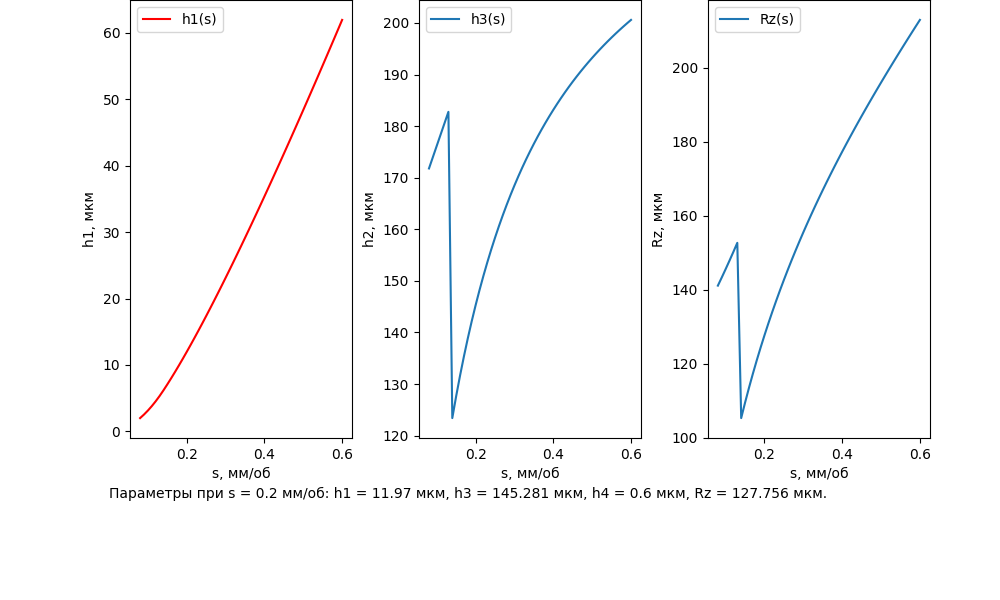
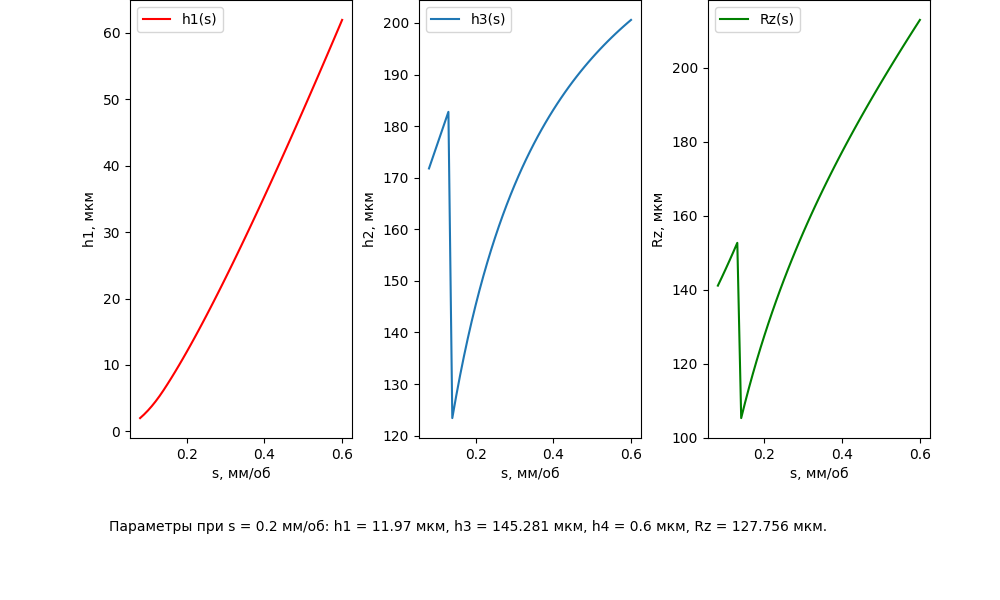
refactored

diff --git a/main.py b/main.py
@@ -9,44 +9,44 @@ scheme = "0"
 Kh = 0.96
 lst_bol = False
 
-plt.figure(figsize=(10,6))
+plt.figure(figsize=(10, 6))
 
-def schema_definition(s,r,φ,φ1):
+def schema_definition(s, r, φ, φ1):
     fi0 = 0
     A = 0
     if φ == φ1:
-        if s > 2*r*sin(φ1):
+        if s > 2 * r * sin(φ1):
             scheme = 5
         else:
             scheme = 2
 
     elif φ > φ1:
-        fi0 = grad(arccos((r-s*sin(φ1))/r)-math.radians(φ1))
-        A = (r*(cos(φ1)-cos(fi0)))/tg(φ1)
-        if s < 2*r*sin(φ1):
+        fi0 = grad(arccos((r - s * sin(φ1)) / r) - math.radians(φ1))
+        A = (r * (cos(φ1) - cos(fi0))) / tg(φ1)
+        if s < 2 * r * sin(φ1):
             scheme = 2
-        elif s > sin(φ)+r*sin(φ1)+A :
+        elif s > sin(φ) + r * sin(φ1) + A:
             scheme = 5
         else:
             scheme = 3
 
     elif φ < φ1:
-        
-        fi0 = grad(arccos((r-s*sin(φ))/r)-math.radians(φ))
-        A = (r*(cos(φ1)-cos(fi0*180/3.1416)))/tg(φ)
 
-        if s < 2*r*sin(φ):
+        fi0 = grad(arccos((r - s * sin(φ)) / r) - math.radians(φ))
+        A = (r * (cos(φ1) - cos(fi0 * 180 / 3.1416))) / tg(φ)
+
+        if s < 2 * r * sin(φ):
             scheme = 2
             
-        elif s > r*sin(φ)+r*sin(φ1)+A:
+        elif s > r * sin(φ) + r * sin(φ1) + A:
             scheme = 5
         else:
             scheme = 4
-    return(scheme,fi0)
+    return(scheme, fi0)
 
 def h1_definition(s):
 
-    scheme,fi0 = schema_definition(s,lst[7-1],lst[4-1],lst[5-1])
+    scheme,fi0 = schema_definition(s, lst[7-1], lst[4-1], lst[5-1])
 
     r = lst[7-1]
     φ = lst[4-1]
@@ -54,19 +54,19 @@ def h1_definition(s):
 
     match scheme:
         case (1):
-            h1 = s*(((sin(φ))*sin(φ1))/(sin(φ)*cos(φ1)+sin(φ1)*cos(φ)))
+            h1 = s * (((sin(φ)) * sin(φ1)) / (sin(φ) * cos(φ1) + sin(φ1) * cos(φ)))
         case (2):
-            h1 = r-sqrt(math.pow(r,2)-math.pow((s/2),2))
-        case (3): 
-            h1 = r*(1-cos(fi0))
+            h1 = r - sqrt(math.pow(r, 2) - math.pow((s / 2), 2))
+        case (3):
+            h1 = r * (1 - cos(fi0))
         case (4):
-            h1 = r*(1-cos(fi0))
+            h1 = r * (1 - cos(fi0))
         case (5):
-            x1 = (s-r*(sin(φ)+sin(φ1)))*tg(φ1)
-            x2 = r*tg(φ)*(cos(φ1)-cos(φ))
-            x3 = tg(φ)+tg(φ1)
-            B = (x1-x2)/x3
-            h1 = r*(1-cos(φ))+B*tg(φ)
+            x1 = (s - r * (sin(φ) + sin(φ1))) * tg(φ1)
+            x2 = r * tg(φ) * (cos(φ1) - cos(φ))
+            x3 = tg(φ) + tg(φ1)
+            B = (x1 - x2) / x3
+            h1 = r * (1 - cos(φ)) + B * tg(φ)
     return (h1*1000)
 
 def h3_definition(s):
@@ -77,31 +77,31 @@ def h3_definition(s):
     σ_b = lst[13-1]
     σ_t = lst[14-1]
 
-    τ_s = 0.75*σ_b
+    τ_s = 0.75 * σ_b
     x1 = math.sqrt(math.pow(τ_s,2)+math.pow(σ_t,2))
-    b_s = 0.5*(1000*ρ*(1-(τ_s/x1)))
+    b_s = 0.5 * (1000 * ρ * (1 - (τ_s / x1)))
     #print("b_s",b_s)
-    scheme,fi0 = schema_definition(s,lst[7-1],lst[4-1],lst[5-1])
+    scheme, fi0 = schema_definition(s, lst[7-1], lst[4-1], lst[5-1])
     if scheme == 1 or scheme == 5:
-        h3 = b_s/((1/tg(φ))+1/tg(φ1))
+        h3 = b_s / ((1 / tg(φ)) + 1 / tg(φ1))
     elif scheme == 2:
-        h3 = (b_s*(2*s+b_s))/(32*r)
+        h3 = (b_s * (2 * s + b_s)) / (32 * r)
     elif scheme == 3:
-        h3 = b_s/((1/tg(φ1))+(2*(r/s)))
+        h3 = b_s / ((1 / tg(φ1)) + (2 * (r / s)))
     elif scheme == 4:
-        h3 = b_s/((1/tg(φ))+((2*r)/s))
+        h3 = b_s / ((1 / tg(φ)) + ((2 * r) / s))
     else:
        h3 = 0
-    return (h3*1000)
+    return (h3 * 1000)
 
-def Rz_definition(h1,h3):
-    Kv = 3.5*(math.pow(lst[10-1],-0.25))
+def Rz_definition(h1, h3):
+    Kv = 3.5 * (math.pow(lst[10-1], -0.25))
     h4 = lst[1]
-    hz = lst[8]/1000
-    Rz = (h1+h3+h4)*Kv*(1+(Kh*hz))
+    hz = lst[8] / 1000
+    Rz = (h1 + h3 + h4) * Kv * (1 + (Kh * hz))
     return (Rz)
 
-def grafik():
+def create_graph():
     x1 = []
     y1 = []
     x2 = []
@@ -113,37 +113,37 @@ def grafik():
 
     for i in np.arange(0.08, 0.61, 0.01):
         x1.append(round(i,3))
-        y1.append(h1_definition(round(i,3)))
+        y1.append(h1_definition(round(i, 3)))
 
         x2.append(round(i,3))
-        y2.append(h3_definition((round(i,3))))
+        y2.append(h3_definition((round(i, 3))))
 
-        x_schem.append(round(i,3))
-        scheme,fi0 = schema_definition(round(i,3),lst[7-1],lst[4-1],lst[5-1])
+        x_schem.append(round(i, 3))
+        scheme, fi0 = schema_definition(round(i, 3), lst[7 - 1], lst[4 - 1], lst[5 - 1])
         y_schem.append(scheme)
 
         xRz.append(round(i,3))
-        yRz.append(Rz_definition(h1_definition(round(i,3)),h3_definition((round(i,3)))))
+        yRz.append(Rz_definition(h1_definition(round(i, 3)), h3_definition((round(i, 3)))))
 
 
     #plt.figure(figsize=(10,10))
-    plt.subplots_adjust(left=0.13,
-                    right=0.93,
-                    top=1.0,
-                    bottom= 0.27,
-                    wspace= 0.3,
-                    hspace=0.3)
+    plt.subplots_adjust(left = 0.13,
+                    right = 0.93,
+                    top = 1.0,
+                    bottom = 0.27,
+                    wspace = 0.3,
+                    hspace = 0.3)
     #plt.title('grafick')
     #plt.xlabel('s, мм/об')
     #plt.ylabel('h, mm')
     #plt.text (5,5, 'Here we go')
 
-    ax1 = plt.subplot(1,3,1)
+    ax1 = plt.subplot(1, 3, 1)
     plt.plot(x1,y1, "r", label="h1(s)")
     ax1.set_xlabel("s, мм/об")
     ax1.set_ylabel('h1, мкм')
-    text_1 = ("Параметры при s = " + str(lst[11])+" мм/об: ")+("h1 = " + str(round(h1_definition(lst[12-1]),3)) +" мкм, ")+("h3 = " + str(round(h3_definition(lst[12-1]),3)) +" мкм, ")+("h4 = "+ str(round(lst[1],3))+" мкм, ")+("Rz = " + str(round((Rz_definition(h1_definition(lst[12-1]),h3_definition(lst[12-1]))),3)) +" мкм.")
-    plt.text(0,-10, text_1)
+    text_1 = ("Параметры при s = " + str(lst[11])+" мм/об: ") + ("h1 = " + str(round(h1_definition(lst[12-1]), 3)) + " мкм, ") + ("h3 = " + str(round(h3_definition(lst[12-1]),3)) +" мкм, ") + ("h4 = "+ str(round(lst[1],3))+" мкм, ") + ("Rz = " + str(round((Rz_definition(h1_definition(lst[12-1]),h3_definition(lst[12-1]))),3)) +" мкм.")
+    plt.text(0,-15, text_1)
     #text_1 = ("h1 = " + str(round(h1_definition(lst[12-1]),3)) +" мкм,")+("h3 = " + str(round(h3_definition(lst[12-1]),3)) +" мкм")+("Rz = " + str(round((Rz_definition(h1_definition(lst[12-1]),h3_definition(lst[12-1]))),3)) +" мкм")
     #plt.text(0.21,-3, text_1)
     #text_1 = "h3 = " + str(round(h3_definition(lst[12-1]),3)) +" мкм"
@@ -160,7 +160,7 @@ def grafik():
     plt.legend()
 
     ax3 = plt.subplot(1,3,3)
-    plt.plot(xRz,yRz, label="Rz(s)")
+    plt.plot(xRz,yRz, label="Rz(s)", color = "green")
     ax3.set_xlabel("s, мм/об")
     ax3.set_ylabel('Rz, мкм')
 
@@ -171,4 +171,4 @@ def grafik():
 print("h1 =",round(h1_definition(lst[12-1]),3),"мкм")
 print("h3 =",round(h3_definition(lst[12-1]),3),"мкм")
 print("Rz =",round(Rz_definition(h1_definition(lst[12-1]),h3_definition(lst[12-1])),3),"мкм")
-grafik()
+create_graph()
